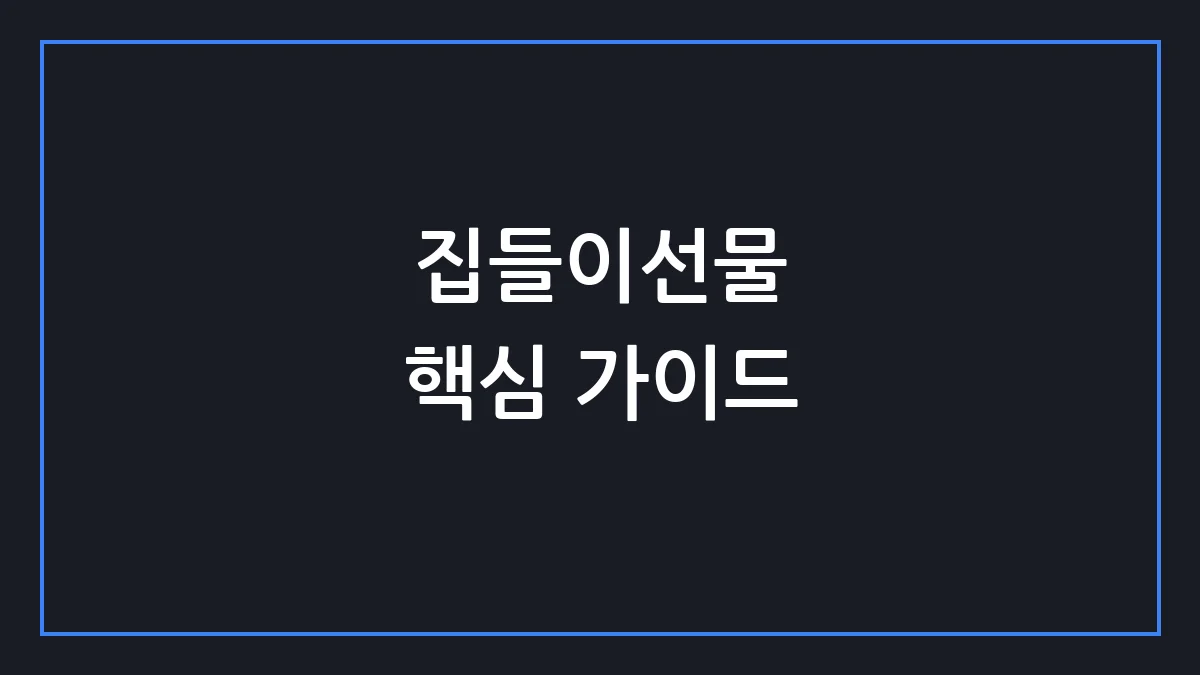
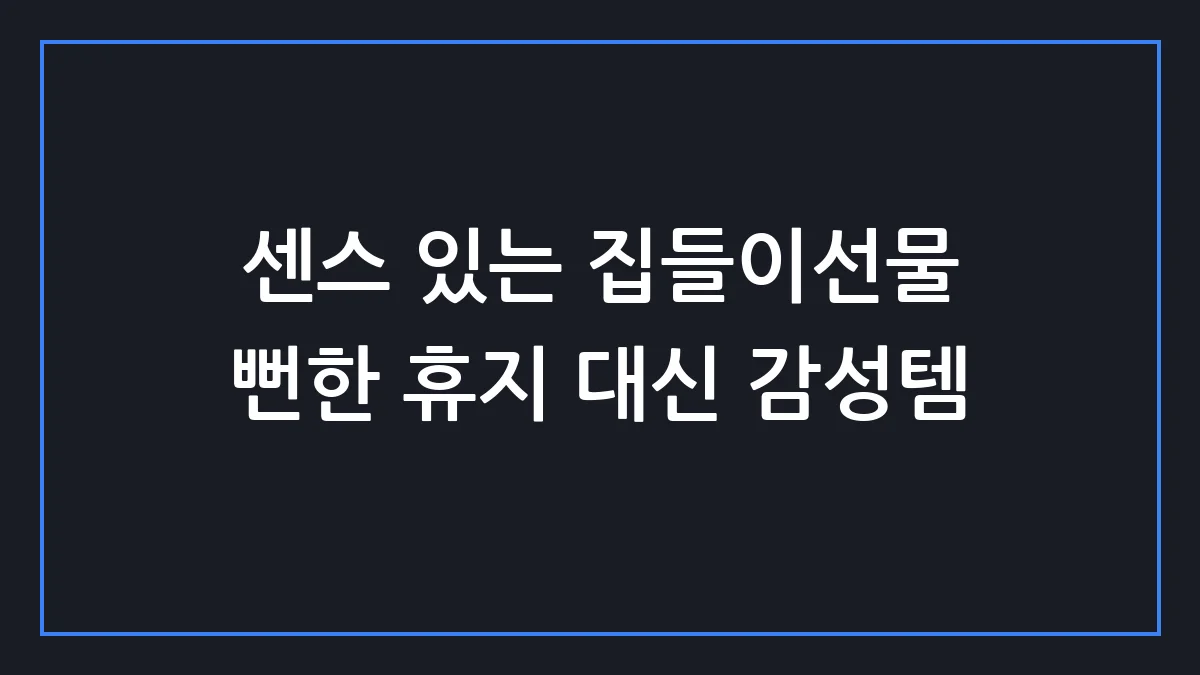
fix: restore card hook thumbnail, fix YAML title quoting, and position excerpt intro

Changed region(s): [[0.185, 0.3111, 0.8017, 0.4667], [0.3392, 0.4978, 0.8325, 0.6222], [0.185, 0.4978, 0.3083, 0.6222]]

diff --git a/_posts/2026-09-04-센스-있다-는-말-절로-나오는-집들이선물-리스트-뻔한-휴지-대신-일상의-.md b/_posts/2026-09-04-센스-있다-는-말-절로-나오는-집들이선물-리스트-뻔한-휴지-대신-일상의-.md
@@ -1,14 +1,9 @@
 ---
 layout: post
-title: ""센스 있다"는 말 절로 나오는 집들이선물 리스트: 뻔한 휴지 대신 일상의 온기를 전해요"
+title: "'센스 있다'는 말 절로 나오는 집들이선물 리스트: 뻔한 휴지 대신 일상의 온기를 전해요"
 date: 2026-09-04
 image: assets/images/thumb_1788493549.webp
 ---
-
-<br>
-![집들이선물 관련 가이드]({{ '/' | append: 'assets/images/vibe_1788493549_1.webp' | relative_url }})
-<br>
-
 
 정든 공간을 떠나 새로운 보금자리를 꾸민 지인의 초대를 받았을 때, 우리는 문득 깊은 고민에 빠지곤 해요.
 
@@ -24,7 +19,11 @@ image: assets/images/thumb_1788493549.webp
 
 주는 사람의 고민을 덜어주고, 받는 사람의 공간을 은은한 온기로 채워줄 현실적이고 감각적인 선물 가이드를 차근차근 전해드릴게요.
 
-1. 실패 없는 집들이선물을 고르는 3가지 기준
+<br>
+![집들이선물 관련 가이드]({{ '/' | append: 'assets/images/vibe_1788493549_1.webp' | relative_url }})
+<br>
+
+### 1. 실패 없는 집들이선물을 고르는 3가지 기준
 
 집들이선물을 고를 때 가장 먼저 내려놓아야 할 것은 '과한 욕심'이에요.
 
@@ -44,7 +43,7 @@ image: assets/images/thumb_1788493549.webp
 
 이 세 가지 기준만 머릿속에 기억해 두셔도, 선물을 뜯어보는 상대방의 얼굴에서 번지는 진짜 미소를 마주할 수 있을 거예요.
 
-2. 공간의 품격을 바꾸는 욕실 패브릭의 힘
+### 2. 공간의 품격을 바꾸는 욕실 패브릭의 힘
 
 새로 이사한 집에 들어섰을 때 그 집의 진짜 살림 내공을 엿볼 수 있는 곳이 바로 욕실이에요.
 
@@ -58,7 +57,7 @@ image: assets/images/thumb_1788493549.webp
 
 누군가의 일상에 깨끗하고 정갈한 루틴을 선물하고 싶다면, 정갈하게 포장된 고급 타월 세트만큼 마음을 편안하게 만드는 선택도 드물어요.
 
-3. 에디터가 엄선한 센스 만점 집들이선물 3종
+### 3. 에디터가 엄선한 센스 만점 집들이선물 3종
 
 고민을 거듭하는 여러분을 위해, 실용성과 고급스러운 무드를 두루 갖춰 호불호 없이 사랑받는 아이템 세 가지를 추려보았어요.
 
@@ -121,7 +120,7 @@ image: assets/images/thumb_1788493549.webp
 
 
 
-4. 마음을 전하는 따뜻한 마무리와 패키징 팁
+### 4. 마음을 전하는 따뜻한 마무리와 패키징 팁
 
 마지막으로 선물의 완성도를 한 뼘 더 올려주는 것은 그 위에 얹는 짧은 한 문장의 손편지예요.
 
